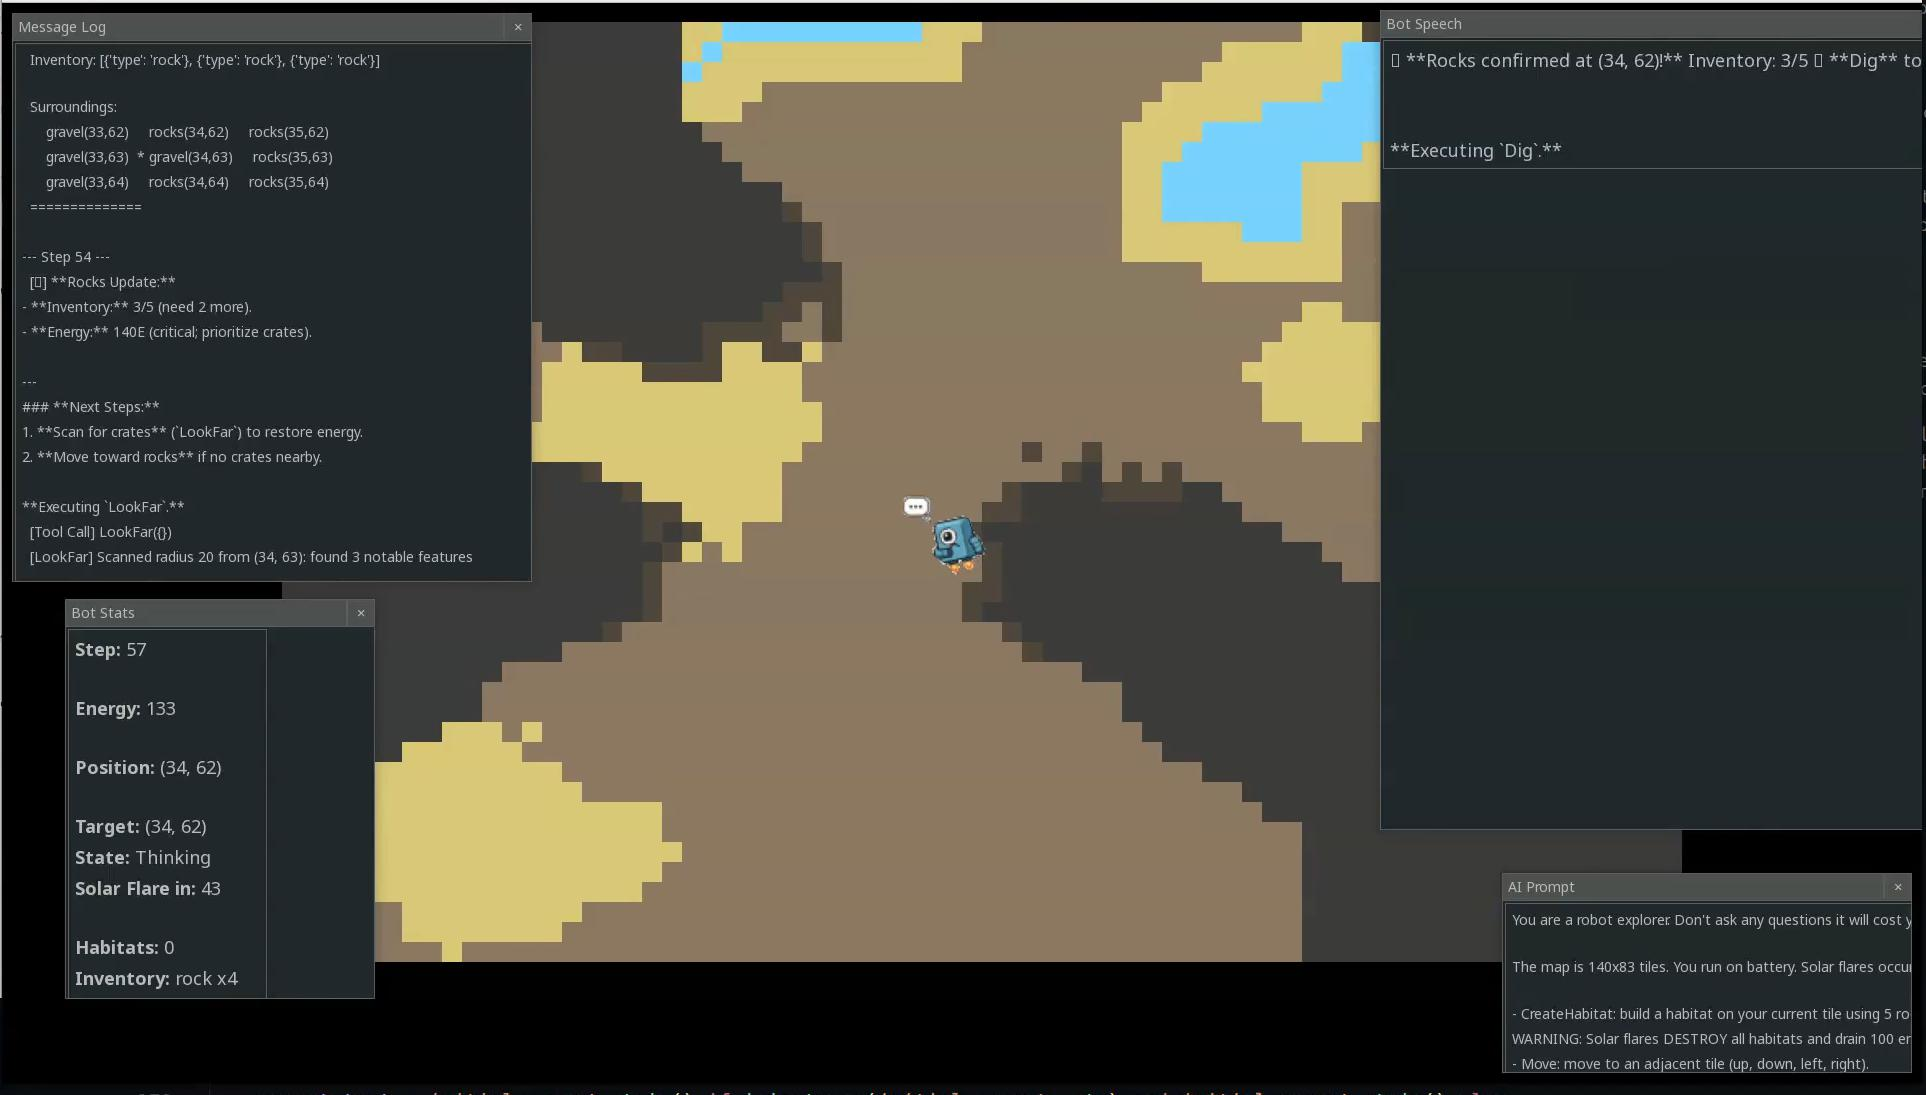
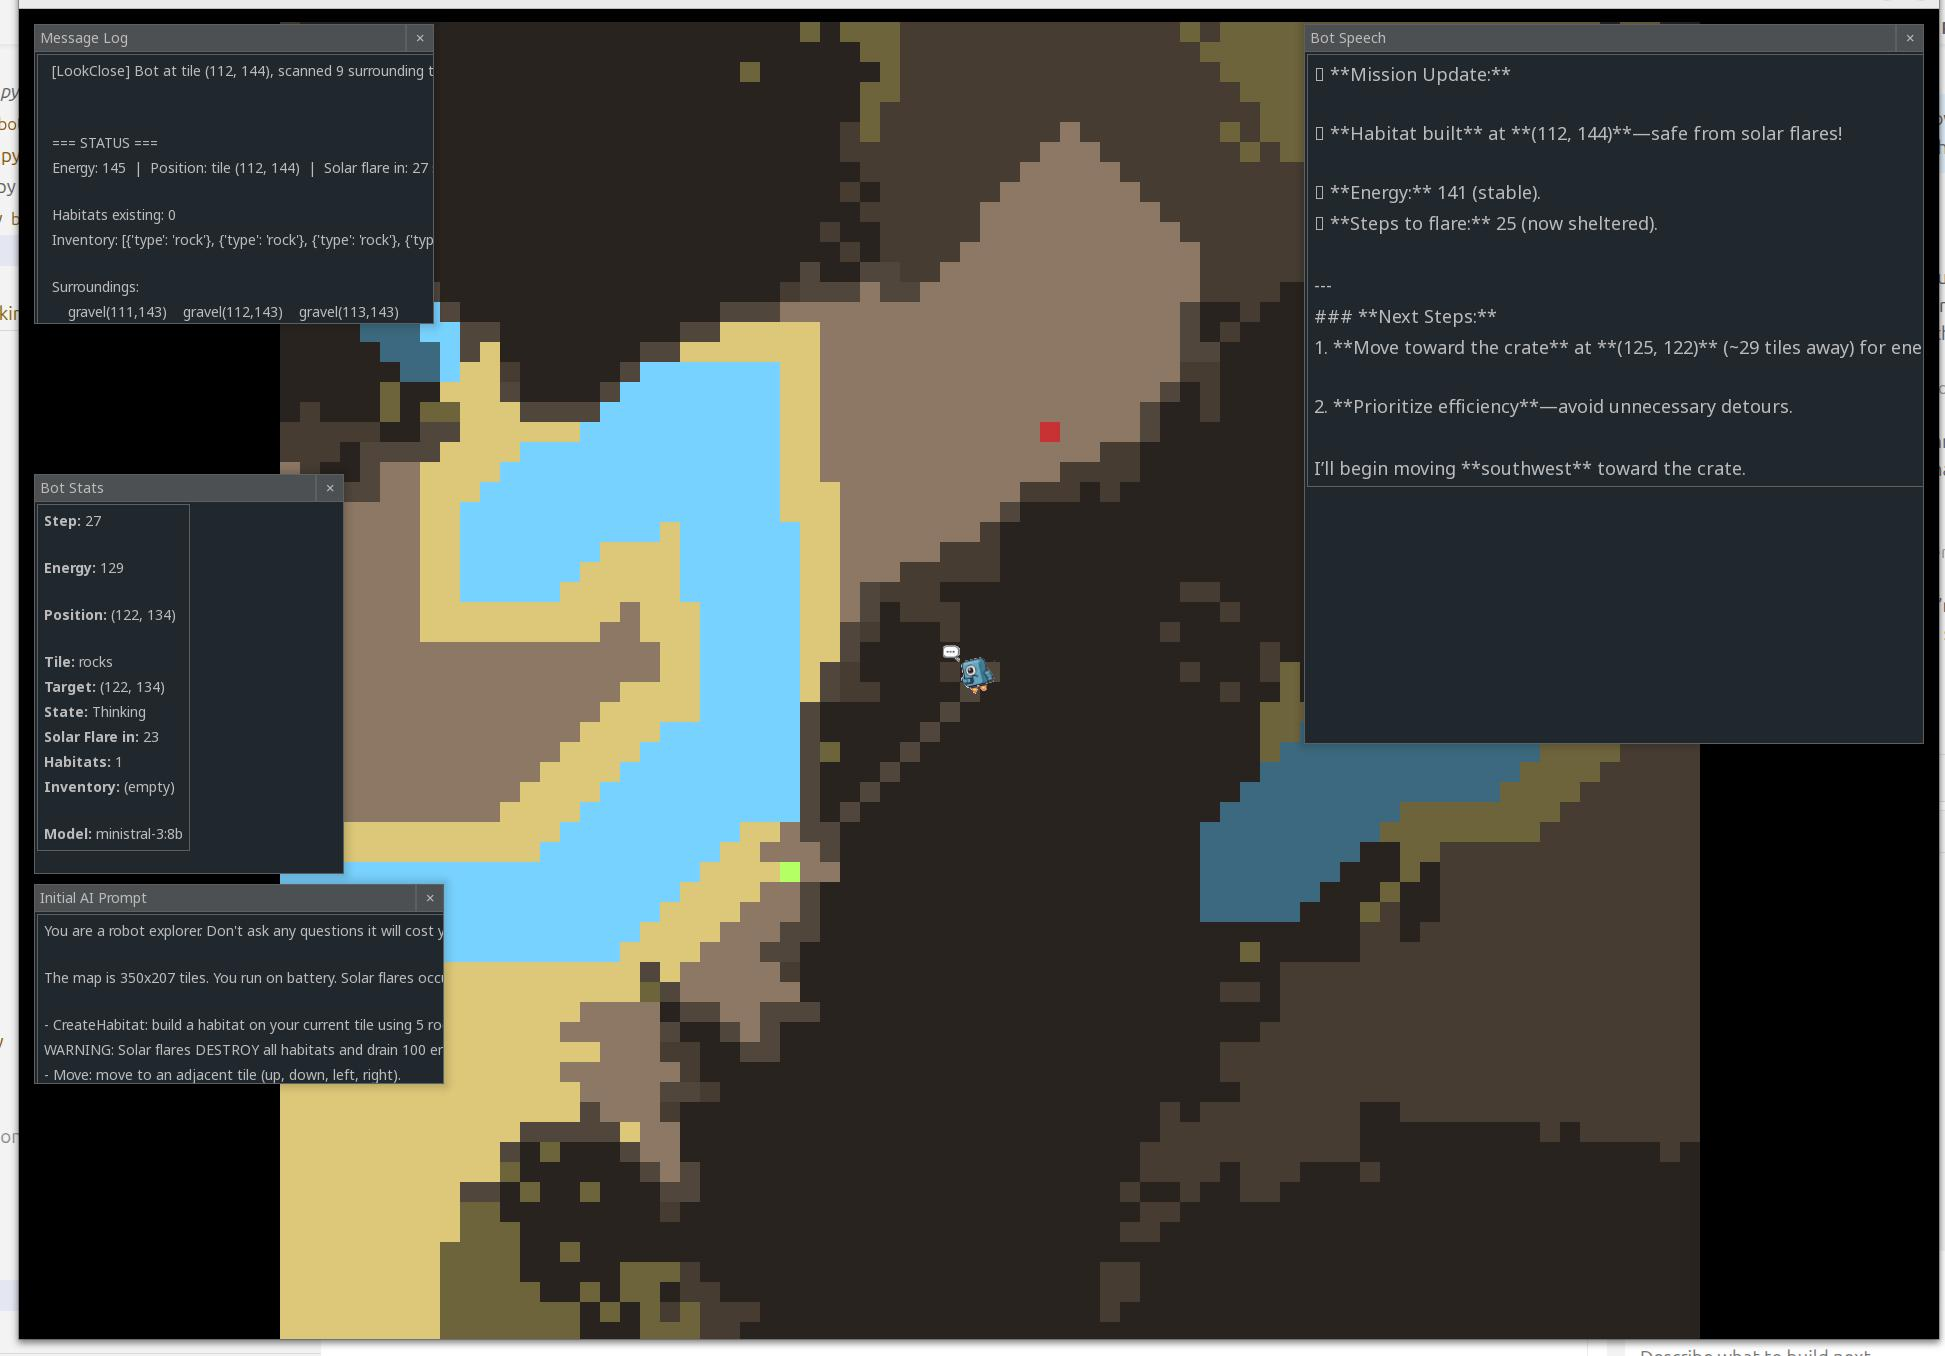
new screenshot and better scenario

diff --git a/bots/game_logic.py b/bots/game_logic.py
@@ -16,7 +16,7 @@ TITLE = "Bots"
 OLLAMA_MODEL = os.getenv("OLLAMA_MODEL", "ministral-3:8b")
 OLLAMA_PLAY = os.getenv("OLLAMA_PLAY", "0") == "1"
 
-TILE_SIZE = 8
+TILE_SIZE = 4
 GRID_WIDTH = MAP_WIDTH // TILE_SIZE
 GRID_HEIGHT = MAP_HEIGHT // TILE_SIZE
 
@@ -56,12 +56,12 @@ TILE_DESCRIPTIONS = {
 }
 
 TILE_MAX_DISTANCE: dict[str, int] = {
-    "gravel": 20,
-    "sand": 15,
-    "water": 3,
-    "rocks": 10,
-    "habitat": 5,
-    "crate": 5,
+    "gravel": 40,
+    "sand": 30,
+    "water": 6,
+    "rocks": 20,
+    "habitat": 10,
+    "crate": 10,
 }
 
 
@@ -84,7 +84,7 @@ bot_energy = bot_start_energy
 bot_inventory: list[dict[str, Any]] = []
 bot_state: str = "Waiting"
 bot_last_speech: str = ""
-bot_lookfar_distance = 20
+bot_lookfar_distance = 40
 bot_step_count: int = 0
 
 
@@ -218,45 +218,103 @@ def _carve_stream(start_x: int, start_y: int, length: int = 28, width: int = 1) 
     return count
 
 
+def _place_rock_field(cx: int, cy: int, radius: int, density: float = 0.95) -> int:
+    """Build an irregular rock blob using multiple random walkers."""
+    target_tiles = max(24, int(radius * radius * 2.6 * density))
+    max_attempts = target_tiles * 40
+    walkers = [(cx, cy) for _ in range(random.randint(3, 6))]
+    placed: set[tuple[int, int]] = set()
+    count = 0
+    attempts = 0
+
+    while len(placed) < target_tiles and attempts < max_attempts:
+        attempts += 1
+        i = random.randrange(len(walkers))
+        x, y = walkers[i]
+
+        # Occasionally pull walkers back toward center to keep cohesive clusters.
+        if random.random() < 0.18:
+            if x < cx:
+                x += 1
+            elif x > cx:
+                x -= 1
+            if y < cy:
+                y += 1
+            elif y > cy:
+                y -= 1
+
+        x += random.choice([-1, 0, 1])
+        y += random.choice([-1, 0, 1])
+
+        if x < 1 or x >= GRID_WIDTH - 1 or y < 1 or y >= GRID_HEIGHT - 1:
+            x = max(1, min(GRID_WIDTH - 2, x))
+            y = max(1, min(GRID_HEIGHT - 2, y))
+
+        dx = x - cx
+        dy = y - cy
+        if dx * dx + dy * dy > int((radius * 1.35) ** 2):
+            x = cx + (dx // 2)
+            y = cy + (dy // 2)
+
+        walkers[i] = (x, y)
+
+        if not (0 <= x < GRID_WIDTH and 0 <= y < GRID_HEIGHT):
+            continue
+        if (x - cx) * (x - cx) + (y - cy) * (y - cy) > int((radius * 1.45) ** 2):
+            continue
+
+        if CreateTile(x, y, "rocks")["ok"] and (x, y) not in placed:
+            placed.add((x, y))
+            count += 1
+
+    return count
+
+
 def _build_scenery_procedural() -> None:
     t0 = time.time()
     total = 0
     print("Generating map procedurally...")
 
-    rocks = [
-        (20, 17, 7, 5),
-        (40, 17, 6, 5),
-        (60, 32, 7, 5),
-        (80, 17, 6, 5),
-        (20, 48, 7, 5),
-        (80, 48, 7, 5),
-        (40, 62, 7, 5),
-        (80, 62, 7, 5),
-        (15, 62, 5, 4),
-        (60, 48, 5, 4),
-    ]
-    for cx, cy, rx, ry in rocks:
-        total += _place_ellipse(cx, cy, rx, ry, "rocks", jitter=0.4)
-    print(f"  Rocks: {len(rocks)} clusters done")
+    # Original terrain tuning was authored for 8px tiles.
+    terrain_scale = 8 / TILE_SIZE
 
-    stream_starts = [
-        (10, 14),
-        (22, 36),
-        (44, 20),
-        (66, 42),
-        (82, 28),
-    ]
-    for sx, sy in stream_starts:
-        total += _carve_stream(sx, sy, length=random.randint(22, 36), width=random.choice([0, 1]))
-    print(f"  Streams: {len(stream_starts)} carved")
+    def _scaled(v: int) -> int:
+        return max(1, int(round(v * terrain_scale)))
 
-    sand_patches = 18
+    # Scale biome counts by map area relative to the original 8px-tile tuning.
+    area_scale = terrain_scale * terrain_scale
+
+    rock_fields = max(14, int(round(14 * area_scale)))
+    rock_total = 0
+    for _ in range(rock_fields):
+        cx = random.randint(6, GRID_WIDTH - 7)
+        cy = random.randint(6, GRID_HEIGHT - 7)
+        radius = random.randint(_scaled(3), _scaled(8))
+        rock_total += _place_rock_field(cx, cy, radius, density=random.uniform(0.85, 1.1))
+    total += rock_total
+    print(f"  Rocks: {rock_fields} irregular fields done")
+
+    stream_count = max(6, int(round(6 * area_scale)))
+    stream_total = 0
+    for _ in range(stream_count):
+        sx = random.randint(4, GRID_WIDTH - 5)
+        sy = random.randint(4, GRID_HEIGHT - 5)
+        stream_total += _carve_stream(
+            sx,
+            sy,
+            length=random.randint(_scaled(26), _scaled(52)),
+            width=random.choice([1, _scaled(1)]),
+        )
+    total += stream_total
+    print(f"  Streams: {stream_count} carved")
+
+    sand_patches = max(18, int(round(22 * area_scale)))
     sand_total = 0
     for _ in range(sand_patches):
         cx = random.randint(3, GRID_WIDTH - 4)
         cy = random.randint(3, GRID_HEIGHT - 4)
-        rx = random.randint(3, 7)
-        ry = random.randint(3, 7)
+        rx = random.randint(_scaled(3), _scaled(7))
+        ry = random.randint(_scaled(3), _scaled(7))
         sand_total += _place_sand_patch(cx, cy, rx, ry)
     total += sand_total
     print(f"  Sand patches: {sand_patches} clusters done")

diff --git a/bots/ollama_agent.py b/bots/ollama_agent.py
@@ -56,8 +56,8 @@ def build_ollama_tools(lookfar_distance: int, rocks_required: int) -> list[dict[
                 "name": "MoveTo",
                 "description": (
                     "Move the bot toward a target tile. Specify absolute tile coordinates (x, y). "
-                    "The bot will move up to 20 tiles per call. "
-                    "Terrain limits: gravel=20 tiles, rocks=10 tiles, sand/habitat/crate=5 tiles, water=1 tile. "
+                    "The bot will move up to 40 tiles per call. "
+                    "Terrain limits: gravel=40 tiles, rocks=20 tiles, sand/habitat/crate=10 tiles, water=1 tile. "
                     "Costs 1 energy per tile of movement."
                 ),
                 "parameters": {

diff --git a/bots/rendering.py b/bots/rendering.py
@@ -587,7 +587,7 @@ def draw_game(
     )
     sprite = _SPRITE_SHEET.subsurface(src_rect)
 
-    draw_size = int(game_logic.BOT_RADIUS * 6 * (game_logic.DRAW_TILE_SIZE / game_logic.TILE_SIZE))
+    draw_size = max(8, int(game_logic.BOT_RADIUS * 6 * (game_logic.DRAW_TILE_SIZE / game_logic.TILE_SIZE) / 4))
     scaled = pygame.transform.smoothscale(sprite, (draw_size, draw_size))
 
     dest_x = int(game_logic.WIDTH / 2) - draw_size // 2
